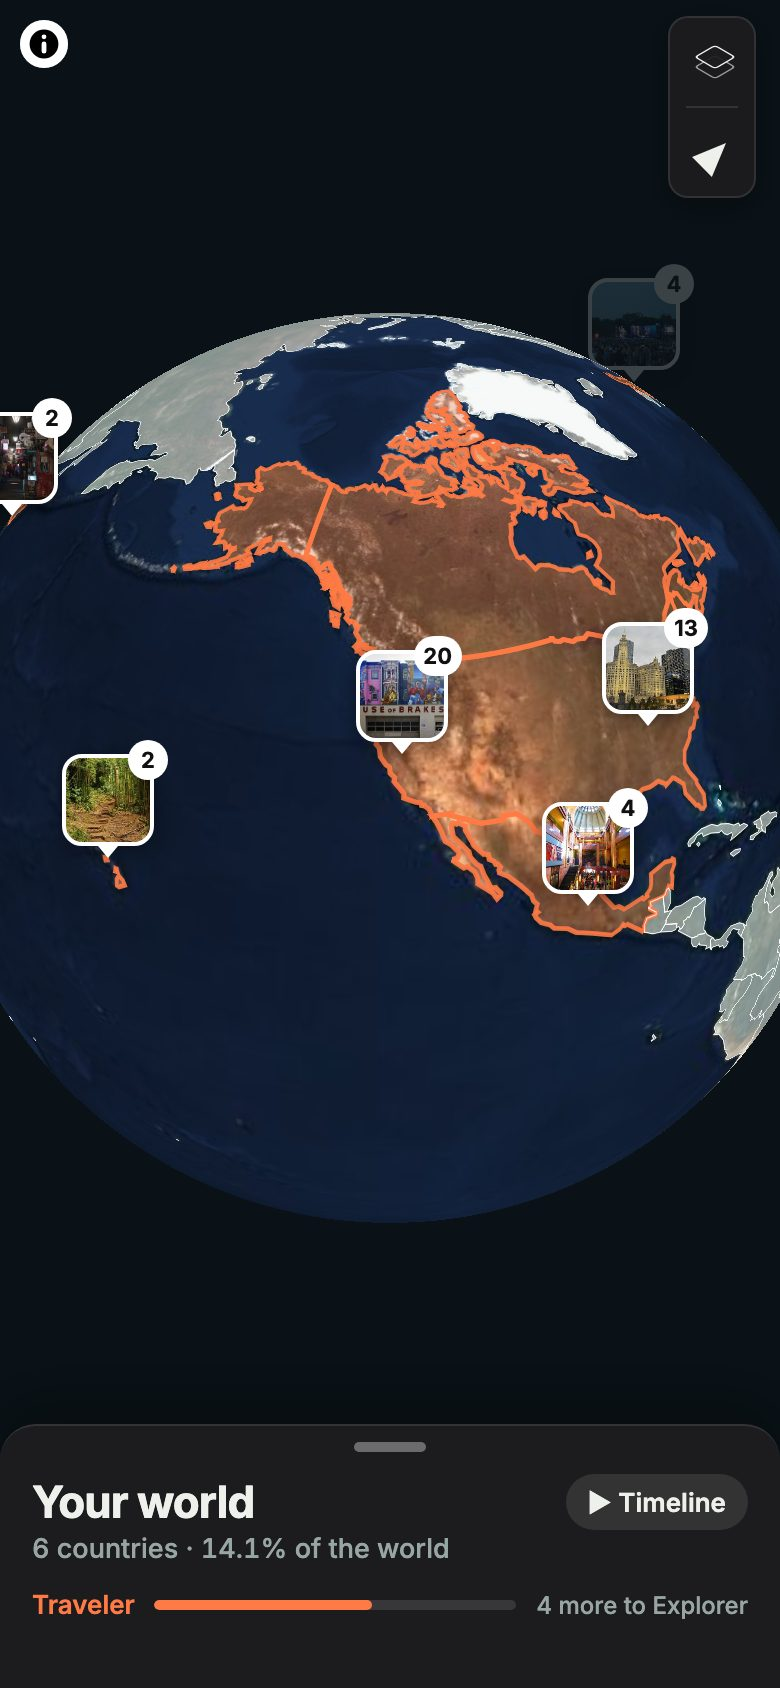
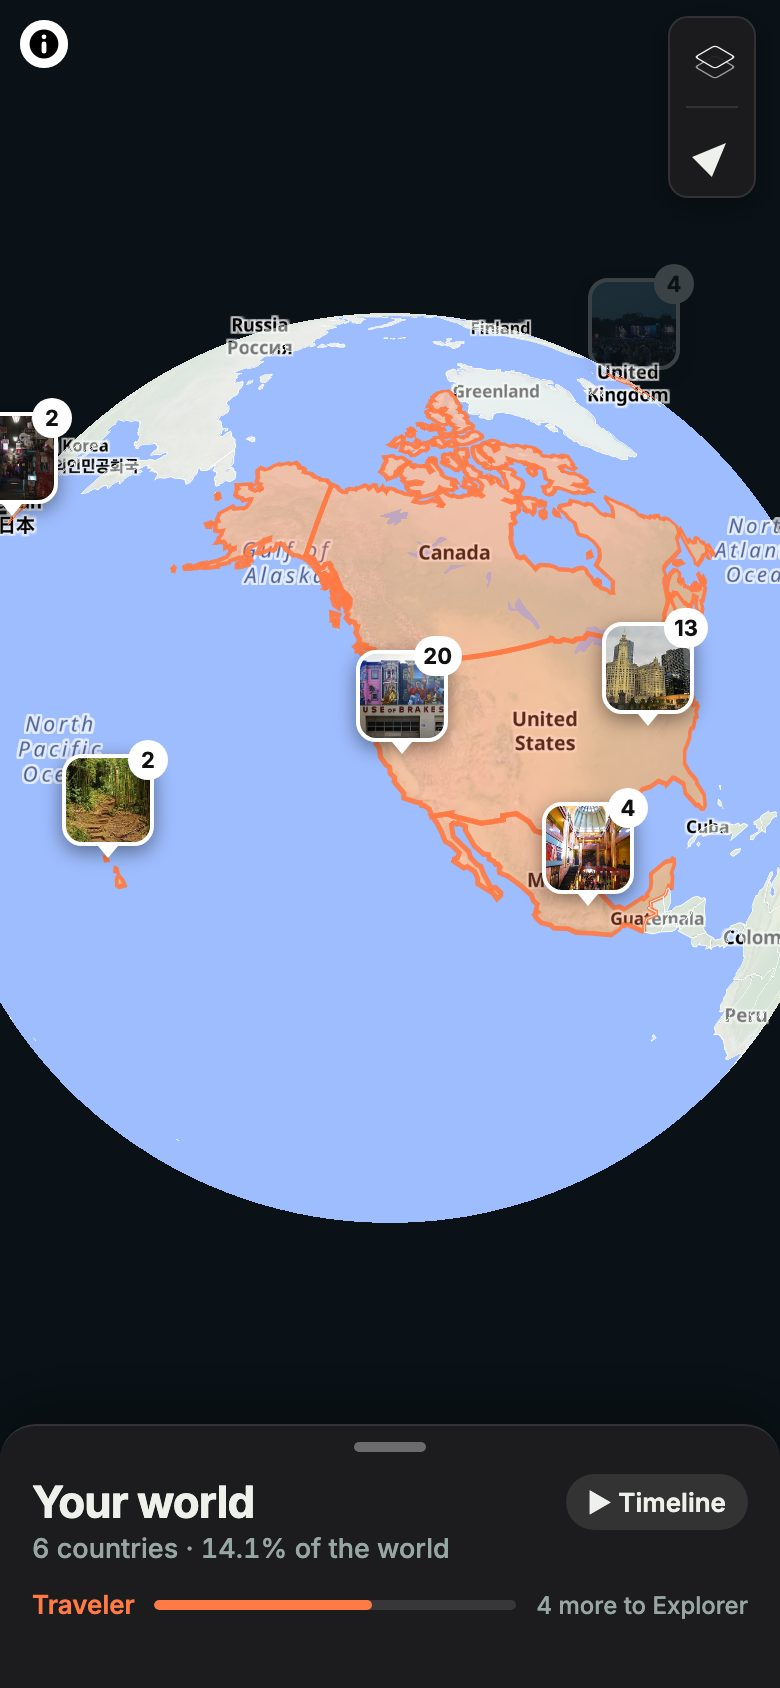
Open on the street map, a globe in the browser; a plain globe when it can't load

diff --git a/mobile/src/map/MapCanvas.tsx b/mobile/src/map/MapCanvas.tsx
@@ -1,12 +1,12 @@
 // The map on Android: native MapLibre drawing what src/map/model.ts computed, with the same style
 // objects as the web (src/map/style.ts). Photo pins, "you are here" and ring labels are views.
 import { Camera, GeoJSONSource, Layer, Map, Marker, type CameraRef } from '@maplibre/maplibre-react-native';
-import { useEffect, useRef } from 'react';
+import { useEffect, useRef, useState } from 'react';
 import { Image, Pressable, StyleSheet, Text, View } from 'react-native';
 import { useSafeAreaInsets } from 'react-native-safe-area-context';
 import { C, F } from '../theme';
 import type { Level } from '../types';
-import { baseStyle, OVERLAY_LAYERS } from './style';
+import { baseStyle, FALLBACK_STYLE, OVERLAY_LAYERS, type Basemap } from './style';
 import type { MapCanvasProps } from './types';
 import { photoSource } from '../ui/photoSource';
 
@@ -16,6 +16,9 @@ const layers = (source: string) => OVERLAY_LAYERS.filter((l) => 'source' in l &&
 export function MapCanvas(p: MapCanvasProps) {
   const camera = useRef<CameraRef>(null);
   const insets = useSafeAreaInsets();
+  // The basemap whose style couldn't be fetched (offline, server down): it draws on FALLBACK_STYLE,
+  // and switching basemap tries again.
+  const [failed, setFailed] = useState<Basemap | null>(null);
 
   // A new camera key moves the camera, framing above the sheet.
   useEffect(() => {
@@ -29,7 +32,8 @@ export function MapCanvas(p: MapCanvasProps) {
     <Map
       style={StyleSheet.absoluteFill}
       testID="map-canvas"
-      mapStyle={baseStyle(p.basemap)}
+      mapStyle={failed === p.basemap ? FALLBACK_STYLE : baseStyle(p.basemap)}
+      onDidFailLoadingMap={() => setFailed(p.basemap)}
       logo={false}
       // Credits top-left: the bottom belongs to the sheet, the top-right to the map buttons.
       attributionPosition={{ top: insets.top + 8, left: 8 }}

diff --git a/mobile/scripts/test-map-style.ts b/mobile/scripts/test-map-style.ts
@@ -2,13 +2,19 @@
 // Run: npx tsx scripts/test-map-style.ts
 import assert from 'node:assert/strict';
 import { validateStyleMin, type StyleSpecification } from '@maplibre/maplibre-gl-style-spec';
-import { ATTRIBUTION, baseStyle, OVERLAY_LAYERS, OVERLAY_SOURCES } from '../src/map/style';
+import { ATTRIBUTION, baseStyle, FALLBACK_STYLE, OVERLAY_LAYERS, OVERLAY_SOURCES } from '../src/map/style';
 import { C } from '../src/theme';
 
 const satellite = baseStyle('satellite');
 assert.equal(typeof satellite, 'object');
 assert.deepEqual(validateStyleMin(satellite as StyleSpecification), [], 'satellite style is valid');
 assert.equal(baseStyle('standard'), 'https://tiles.openfreemap.org/styles/liberty');
+
+// When the street map's style can't be fetched, the map falls back to a style with nothing remote,
+// so the visited areas and photos still draw.
+assert.deepEqual(validateStyleMin(FALLBACK_STYLE), [], 'fallback style is valid');
+assert.equal(JSON.stringify(FALLBACK_STYLE).includes('http'), false, 'fallback style loads nothing remote');
+assert.deepEqual(FALLBACK_STYLE.projection, { type: 'globe' }, 'fallback style is a globe like the others');
 
 // The overlays, in drawing order, each reading a GeoJSON source of the same name.
 assert.deepEqual(OVERLAY_LAYERS.map((l) => l.id), ['areas-fill', 'areas-line', 'journey', 'rings', 'events']);

diff --git a/mobile/src/map/MapCanvas.web.tsx b/mobile/src/map/MapCanvas.web.tsx
@@ -5,7 +5,7 @@ import maplibregl, { type GeoJSONSource, type Map as MapLibreMap, type Marker } 
 import { useEffect, useRef, type ComponentRef } from 'react';
 import { StyleSheet, View } from 'react-native';
 import type { Level } from '../types';
-import { baseStyle, OVERLAY_LAYERS, OVERLAY_SOURCES } from './style';
+import { baseStyle, FALLBACK_STYLE, OVERLAY_LAYERS, OVERLAY_SOURCES } from './style';
 import type { MapCanvasProps } from './types';
 
 const EMPTY = { type: 'FeatureCollection' as const, features: [] };
@@ -71,9 +71,15 @@ export function MapCanvas(props: MapCanvasProps) {
       });
     };
     map.on('style.load', () => {
+      // The street map's remote style has no projection: in the browser every basemap is a globe.
+      map.setProjection({ type: 'globe' });
       addOverlays(map);
       ready.current = true;
       sync(map, latest.current);
+    });
+    // The style couldn't be fetched (offline, server down): draw on a plain globe instead.
+    map.on('error', () => {
+      if (!ready.current && !map.isStyleLoaded()) map.setStyle(FALLBACK_STYLE as maplibregl.StyleSpecification, { diff: false });
     });
     map.on('load', () => {
       report();

diff --git a/mobile/src/map/style.ts b/mobile/src/map/style.ts
@@ -28,8 +28,17 @@ const SATELLITE: StyleSpecification = {
   ],
 };
 
-// OpenFreeMap: free vector tiles from OpenStreetMap, no key.
+// OpenFreeMap: free vector tiles from OpenStreetMap, no key. A remote style: the renderers turn it
+// into a globe once it loads, and use FALLBACK_STYLE when it can't be fetched.
 const STANDARD = 'https://tiles.openfreemap.org/styles/liberty';
+
+// Nothing remote, so the visited areas and photos still draw when the street map is unreachable.
+export const FALLBACK_STYLE: StyleSpecification = {
+  version: 8,
+  projection: { type: 'globe' },
+  sources: {},
+  layers: [{ id: 'space', type: 'background', paint: { 'background-color': '#071521' } }],
+};
 
 export function baseStyle(basemap: Basemap): StyleSpecification | string {
   return basemap === 'satellite' ? SATELLITE : STANDARD;

diff --git a/mobile/App.tsx b/mobile/App.tsx
@@ -105,7 +105,7 @@ function Home() {
   const [view, setView] = useState<MapView>({ zoom: WORLD_ZOOM, bounds: [-180, -85, 180, 85], center: [DEFAULT_HOME.lon, DEFAULT_HOME.lat], user: false });
   const [camera, setCamera] = useState<CameraTarget>({ key: 0, center: [DEFAULT_HOME.lon, DEFAULT_HOME.lat], zoom: WORLD_ZOOM });
   const flyTo = useCallback((center: [number, number], zoom: number) => setCamera((c) => ({ key: c.key + 1, center, zoom })), []);
-  const [basemap, setBasemap] = useState<Basemap>('satellite');
+  const [basemap, setBasemap] = useState<Basemap>('standard');
   const [detent, setDetent] = useState<Detent>('low');
   const [tapped, setTapped] = useState<Area | null>(null); // the area tapped, until you move the map
 

diff --git a/README.md b/README.md
@@ -24,7 +24,7 @@ Mantide is an open-source Android app for travelers. It reads the date and GPS o
 
 ## What it does
 
-- **The iPhone Photos map, on Android:** a satellite map (a globe in the browser) where the countries you've visited light up; zoom in for their states and counties in the US (regions and provinces elsewhere), with your photos on the map in numbered groups. Tap a place to fly into it.
+- **The iPhone Photos map, on Android:** a street map, with satellite one tap away (a globe in the browser), where the countries you've visited light up; zoom in for their states and counties in the US (regions and provinces elsewhere), with your photos on the map in numbered groups. Tap a place to fly into it.
 - **One sheet that follows what you look at:** your world far out, the photos in view as you pull it up, then the place itself: three small numbers and "For you here" first.
 - **Your photos say what you love:** Gemma 4 labels a sample of your photos with 12 interests; you can remove any of them in the passport.
 - **Events for you where you're looking,** each with why it was picked and one of your photos that explains it; tap one to see it on the map.
@@ -39,7 +39,7 @@ Your photos and your movements are the most private data there is: where you liv
 
 - **No server, no account.** Nothing is uploaded; anyone can read the code.
 - **Gemma 4 runs locally:** on your own computer today, on the phone itself next (see [roadmap](#status-and-roadmap)).
-- **Open data:** MapLibre, Natural Earth, US Census and ISTAT boundaries, Sentinel-2 imagery.
+- **Open data:** MapLibre, OpenStreetMap, Natural Earth, US Census and ISTAT boundaries, Sentinel-2 imagery.
 
 ## Why
 
@@ -53,7 +53,7 @@ Your photos and your movements are the most private data there is: where you liv
 Android phone (mobile/: Expo, React Native, TypeScript)
 ├── Gallery: date and GPS of every photo (expo-media-library, ACCESS_MEDIA_LOCATION)
 ├── Places: point → country, state or region, county or province, offline (src/geo)
-├── Map: native MapLibre (MapLibre GL JS in the browser), satellite imagery, visited areas, photo pins (src/map)
+├── Map: native MapLibre (MapLibre GL JS in the browser), street map or satellite imagery, visited areas, photo pins (src/map)
 ├── Interests and suggestions: plain code over Gemma's labels (src/events)
 └── Storage: SQLite on the device
         │  each photo shrunk to 384 px, local network only
@@ -122,6 +122,7 @@ Built by **Mattia Roncato** and **Giorgio Caligiuri** at the Hacktoberfest hack 
 
 - [Gemma 4](https://ai.google.dev/gemma) by Google (Apache 2.0), run with [LiteRT-LM](https://developers.google.com/edge/litert-lm)
 - [MapLibre GL JS](https://maplibre.org) (BSD-3-Clause)
+- Street map: [OpenFreeMap](https://openfreemap.org), © OpenMapTiles, data © [OpenStreetMap contributors](https://www.openstreetmap.org/copyright) (ODbL)
 - Satellite imagery: [Sentinel-2 cloudless 2016](https://s2maps.eu) by EOX IT Services (CC BY 4.0), contains modified Copernicus Sentinel data
 - Boundaries and place names: [Natural Earth](https://www.naturalearthdata.com) (public domain), [US Census Bureau cartographic boundary files](https://www.census.gov/geographies/mapping-files/time-series/geo/cartographic-boundary.html) (public domain) and [openpolis/geojson-italy](https://github.com/openpolis/geojson-italy) (CC BY 4.0, ISTAT data), see [mobile/src/geo/README.md](mobile/src/geo/README.md)
 - Demo photos: Wikimedia Commons authors, listed in [demo-data/CREDITS.md](demo-data/CREDITS.md)

diff --git a/CHANGELOG.md b/CHANGELOG.md
@@ -2,6 +2,8 @@
 
 ## Unreleased
 
+- The map opens on the street map, with country and place names, still a globe in the browser; satellite is one tap away on the map style button. If the street map can't load, your places and photos still draw on a plain globe.
+
 ## 0.4.0 · Stage 2b: America
 
 - Places are read again once after the update: a browser or phone with 0.3.0 photos switches to the San Francisco traveler and the US states, instead of keeping the old Italian ones.
